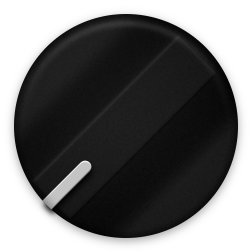
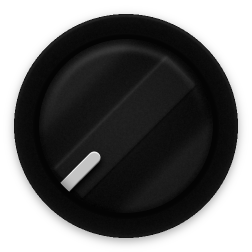
Prueba: Mode con el mismo aro exterior que Depth (la version sin aro queda en UI_definitiva/alternativas) [skip ci]
Claude-Session: https://claude.ai/code/session_01LmYTuHAKQSU8qhR6nNkVAi

diff --git a/UI_definitiva/generadores/mode_ring.py b/UI_definitiva/generadores/mode_ring.py
@@ -1,0 +1,41 @@
+import numpy as np, math
+from PIL import Image
+from scipy.ndimage import gaussian_filter, shift as ndshift
+import knobs_gen as K
+S=2; RO=112; RC=87          # radio exterior (igual que antes) y radio de la tapa (~0.775 del exterior, como Depth)
+def skirt(A):
+    Rr=RO*S; n=int(2*Rr)+4; c=n/2; pad=int(0.12*Rr)
+    yy,xx=np.mgrid[0:n,0:n]; dx=xx-c+.5; dy=yy-c+.5; rr=np.hypot(dx,dy)/Rr; th=np.arctan2(dy,dx)
+    rng=np.random.default_rng(11); lit=np.clip(-np.sin(th),0,1)
+    big=np.zeros((n+2*pad,n+2*pad)); big[pad:pad+n,pad:pad+n]=(rr<=1.0)
+    shd=gaussian_filter(ndshift(big,(0.025*Rr,0),order=1),0.04*Rr)*0.35
+    A[:]=A*(1-shd[...,None])
+    t=np.clip((rr-0.83)/0.17,0,1)
+    g=9+10*t**2+20*np.exp(-((rr-0.985)/0.012)**2)*(0.25+0.75*lit)
+    g=g+gaussian_filter(rng.normal(0,1,(n,n)),0.9)*3+rng.normal(0,1,(n,n))*1.2
+    S_=np.clip(g,0,255); reg=A[pad:pad+n,pad:pad+n]; mk=(rr<=1.0)[...,None]
+    reg[:]=reg*(1-mk)+np.stack([S_,S_,S_],-1)*mk
+    groove=(rr>0.775)&(rr<=0.83); gv=4+7*np.exp(-((rr-0.83)/0.012)**2)*(0.3+0.7*lit)
+    reg[:]=np.where(groove[...,None],np.stack([gv,gv,gv],-1),reg)
+def cap_img(ang):
+    R=RC*S; pad=int(0.12*R); n=int(2*R)+4; N=n+2*pad
+    def fn(A):
+        K.arr=A; K.knob_cap4((pad+n/2)/S,(pad+n/2)/S,RC,ang)
+    im=K.two(fn,N)
+    a=np.array(im).astype(float); h,w=a.shape[:2]; yy,xx=np.mgrid[0:h,0:w]
+    d=np.hypot(xx-w/2+.5,yy-w/2+.5)*S      # px de supersample
+    d=np.hypot(xx-w/2+.5,yy-h/2+.5)*S/S
+    # recortar al disco de la tapa (la sombra propia no cae sobre el aro)
+    m=np.clip((RC-np.hypot(xx-w/2+.5,yy-h/2+.5)),0,1)
+    a[...,3]*=np.clip(RC-np.hypot(xx-w/2+.5,yy-h/2+.5)+0.5,0,1)
+    return Image.fromarray(np.round(a).astype('uint8'),'RGBA')
+def build(ang):
+    N=int(2*RO*S)+4+2*int(0.12*RO*S)
+    base=K.two(skirt,N)
+    c=cap_img(ang); base.alpha_composite(c,((base.width-c.width)//2,(base.height-c.height)//2))
+    return base
+if __name__=='__main__':
+    build(-135).save('mode_half.png'); build(135).save('mode_whole.png')
+    bg=Image.new('RGBA',(252*2+40,252+20),(255,255,255,255))
+    for i,f in enumerate(('mode_half.png','mode_whole.png')): bg.alpha_composite(Image.open(f),(10+i*(252+20),10))
+    bg.save('mode_ring_prev.png')
